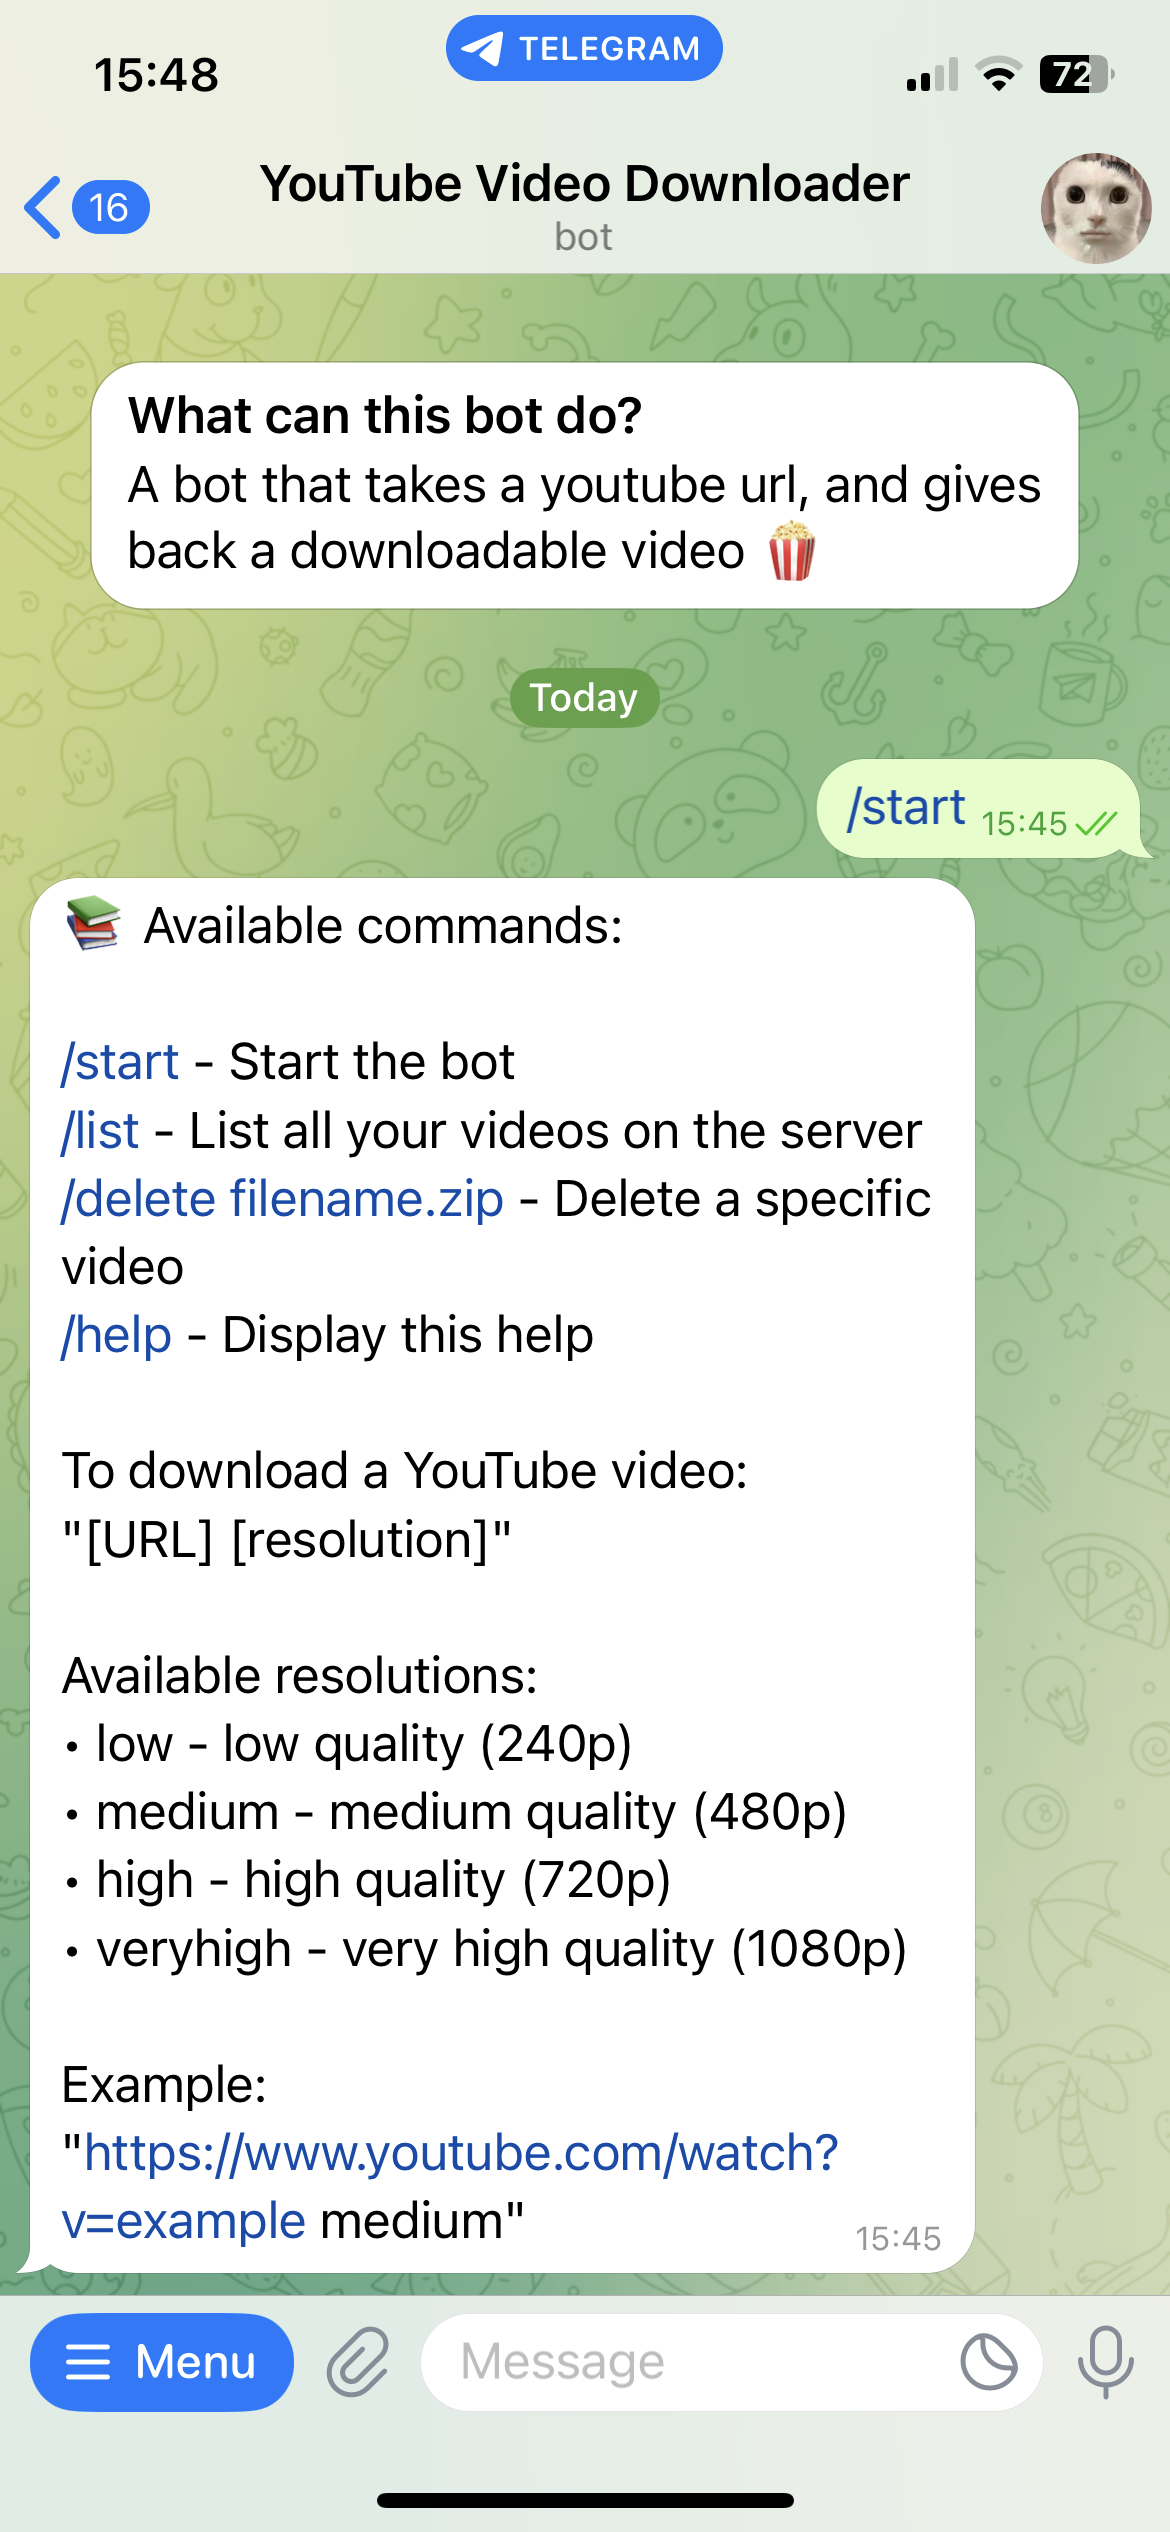
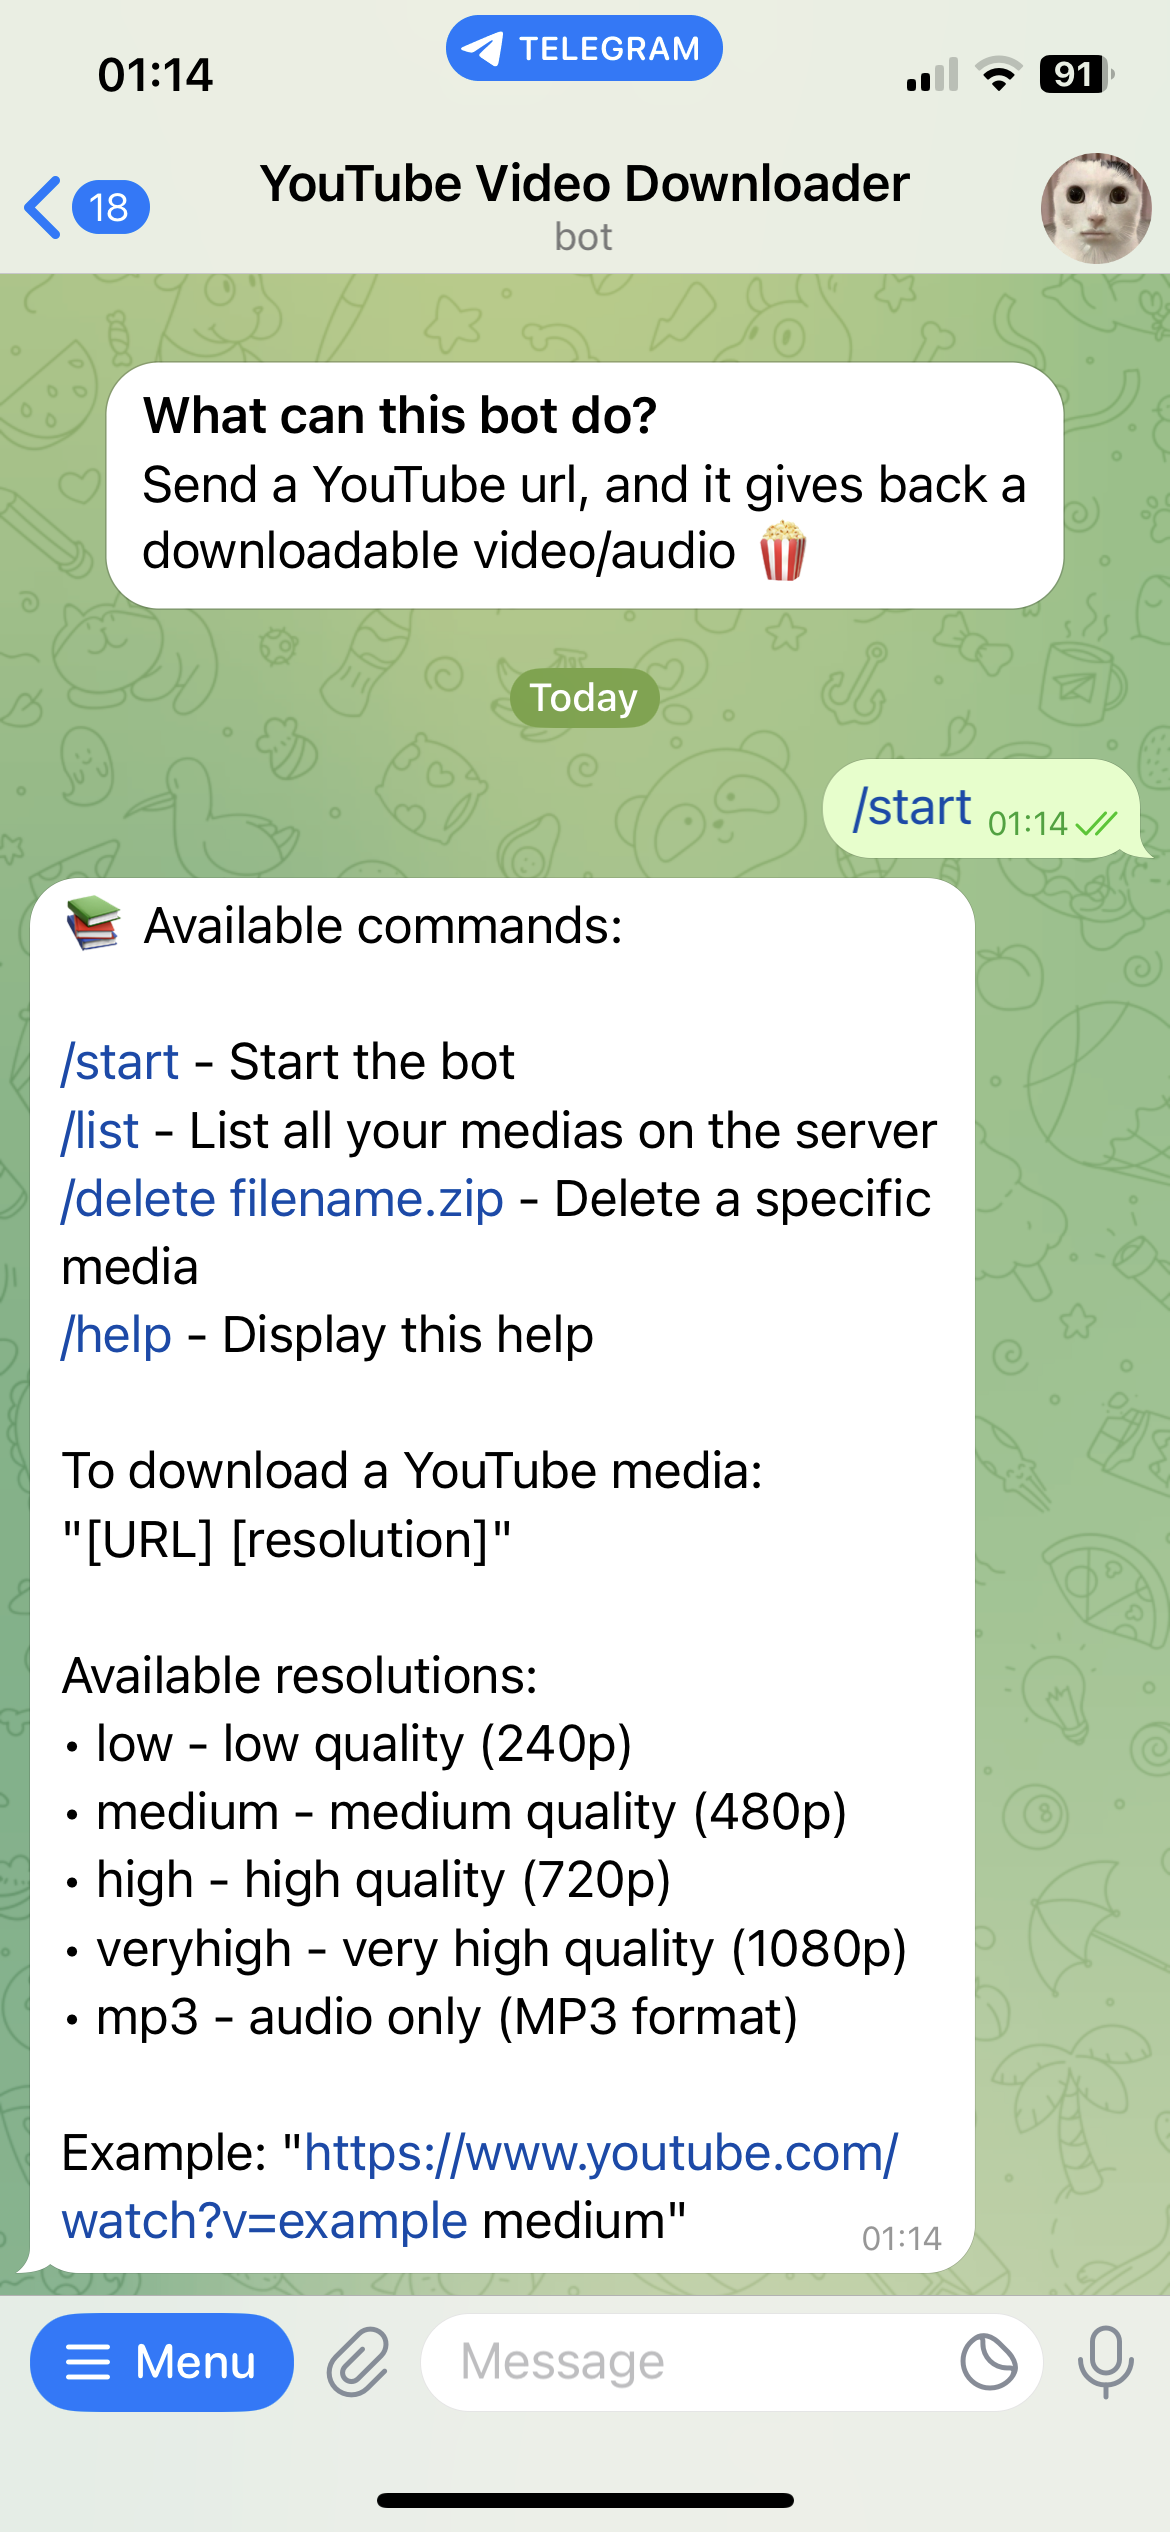
[Feature] Added support for downloading audio in MP3 format, updated S3 key generation to include user info, and improved handling of video/audio sending via Telegram.

diff --git a/lambda_function.py b/lambda_function.py
@@ -32,15 +32,17 @@ Available resolutions:
 • medium - medium quality (480p)
 • high - high quality (720p)
 • veryhigh - very high quality (1080p)
+• mp3 - audio only (MP3 format)
 
-Example:
-"https://www.youtube.com/watch?v=example medium"
+Example: "https://www.youtube.com/watch?v=example medium"
     """
+
 FORMATS = {
     "low": "bestvideo[height<=240][ext=mp4]+bestaudio",
     "medium": "bestvideo[height<=480][ext=mp4]+bestaudio",
     "high": "bestvideo[height<=720][ext=mp4]+bestaudio",
-    "veryhigh": "bestvideo[height<=1080][ext=mp4]+bestaudio"}
+    "veryhigh": "bestvideo[height<=1080][ext=mp4]+bestaudio",
+    "mp3": "bestaudio"}
 
 WORKING_DIR = "/tmp"  # AWS Lambda has write permissions in /tmp
 os.makedirs(WORKING_DIR, exist_ok=True)
@@ -90,18 +92,26 @@ def zip_file(file_path):
         return None
 
 
-def get_s3_key(chat_id, file_name):
+def get_s3_key(chat_id, file_name, first_name=None, last_name=None):
     """
-    Generate the S3 key using chat_id as folder structure
+    Generate the S3 key using chat_id, first_name, and last_name as folder structure
     """
-    return f"{chat_id}/{file_name}"
+    # Create a folder name with available user info
+    folder_parts = [str(chat_id)]
+    if first_name:
+        folder_parts.append(first_name)
+    if last_name:
+        folder_parts.append(last_name)
+    
+    folder_name = "_".join(folder_parts)
+    return f"{folder_name}/{file_name}"
 
 
-def upload_video_to_s3(file_path, chat_id):
+def upload_file_to_s3(file_path, chat_id, first_name=None, last_name=None):
     s3 = boto3.client('s3')
 
     file_name = os.path.basename(file_path)
-    s3_key = get_s3_key(chat_id, file_name)
+    s3_key = get_s3_key(chat_id, file_name, first_name, last_name)
 
     try:
         s3.upload_file(file_path, S3_YT_VIDEOS_BUCKET_NAME, s3_key)
@@ -113,7 +123,7 @@ def upload_video_to_s3(file_path, chat_id):
     return s3_key
 
 
-def generate_presigned_url(s3_key):
+def generate_url(s3_key):
     s3 = boto3.client('s3', config=Config(signature_version='s3v4'))
     try:
         url = s3.generate_presigned_url('get_object',
@@ -125,37 +135,46 @@ def generate_presigned_url(s3_key):
         return None
 
 
-def send_video_or_link(chat_id, file_path):
+def send_video_or_link(chat_id, file_path, first_name=None, last_name=None):
     file_name = os.path.basename(file_path)
     file_size_mb = os.path.getsize(file_path) / (1024 * 1024)  # Convert to MB
     print(f"*** File size: {file_size_mb:.2f} MB")
 
-    # If the file size is less than 50MB, send it directly as a video
+    # If the file size is less than 50MB, send it directly
     if file_size_mb < 50:
-        print(f"*** File is {file_size_mb:.2f}MB, using sendVideo")
-        url_video = f"https://api.telegram.org/bot{BOT_TOKEN}/sendVideo"
-        with open(file_path, 'rb') as video:
-            video_data = video.read()
-        fields = {"chat_id": str(chat_id), "video": (file_name, video_data, "video/mp4")}
-        response = HTTP.request('POST', url_video, fields=fields)
+        print(f"*** File is {file_size_mb:.2f}MB, sending directly")
+        if file_name.endswith('.mp3'):
+            url = f"https://api.telegram.org/bot{BOT_TOKEN}/sendAudio"
+            with open(file_path, 'rb') as audio:
+                audio_data = audio.read()
+            fields = {"chat_id": str(chat_id), "audio": (file_name, audio_data, "audio/mp3")}
+        else:
+            url = f"https://api.telegram.org/bot{BOT_TOKEN}/sendVideo"
+            with open(file_path, 'rb') as video:
+                video_data = video.read()
+            fields = {"chat_id": str(chat_id), "video": (file_name, video_data, "video/mp4")}
+
+        response = HTTP.request('POST', url, fields=fields)
         print(f"*** Response of the POST request: {response.data}")
 
     # If the file size is 50MB or more, zip it, upload to S3 and send the link
     else:
         print(f"*** File is {file_size_mb:.2f}MB, zipping, uploading to S3 and sending link")
 
+        media = "audio/music" if file_name.endswith('.mp3') else "video"
+
         # Zip the file
         zip_file_path = zip_file(file_path)
 
-        # Upload the zipped file to S3 with chat_id as folder
-        s3_key = upload_video_to_s3(zip_file_path, chat_id)
+        # Upload the zipped file to S3 with chat_id and user info as folder
+        s3_key = upload_file_to_s3(zip_file_path, chat_id, first_name, last_name)
         if s3_key:
             # Generate a pre-signed URL
-            file_url = generate_presigned_url(s3_key)
+            file_url = generate_url(s3_key)
             if file_url:
-                msg = f"Here's your video (as a zip file) 🍿\n\n{file_url}"
+                msg = f"Here's your {media} (as a zip file) 🍿\n\n{file_url}"
                 send_message(chat_id, msg)
-                print("*** Video uploaded to S3 and link sent to user")
+                print(f"*** {media} uploaded to S3 and link sent to user")
             else:
                 print("*** Failed to generate pre-signed URL")
                 send_message(chat_id, "Sorry, there was an error creating the download URL 🥲")
@@ -163,8 +182,8 @@ def send_video_or_link(chat_id, file_path):
             # Clean up the zip file
             os.remove(zip_file_path)
         else:
-            print("*** Failed to upload video to S3")
-            send_message(chat_id, "Sorry, there was an error sending the video to the server 🥲")
+            print(f"*** Failed to upload {media} to S3")
+            send_message(chat_id, f"Sorry, there was an error sending the {media} to the server 🥲")
 
     # Clean up after sending the video
     os.remove(file_path)
@@ -183,10 +202,18 @@ def download_video(url, resolution):
         YT_DLP_PATH,
         "--cookies", cookie_file,
         "--output", output_path,
-        "--format", format_string,
-        "--ffmpeg-location", FFMPEG_PATH,
-        "--merge-output-format", "mp4",
-        url]
+        "--format", format_string]
+
+    if resolution == "mp3":
+        command_download.extend([
+            "--extract-audio",
+            "--audio-format", "mp3"])
+    else:
+        command_download.extend([
+            "--ffmpeg-location", FFMPEG_PATH,
+            "--merge-output-format", "mp4"])
+
+    command_download.append(url)
 
     print("*** Executing command:", " ".join(command_download))
     process = subprocess.run(command_download, capture_output=True, text=True)
@@ -194,10 +221,15 @@ def download_video(url, resolution):
 
     if process.returncode == 0:
         print("*** Download successful")
-        for file in os.listdir(WORKING_DIR):
-            if file.endswith(".mp4"):
-                return os.path.join(WORKING_DIR, file)
-        print("*** No MP4 file found")
+        if resolution == "mp3":
+            for file in os.listdir(WORKING_DIR):
+                if file.endswith(".mp3"):
+                    return os.path.join(WORKING_DIR, file)
+        else:
+            for file in os.listdir(WORKING_DIR):
+                if file.endswith(".mp4"):
+                    return os.path.join(WORKING_DIR, file)
+        print("*** No output file found")
     else:
         print("*** Error downloading")
         print(f"*** Error downloading with stderr: {process.stderr}")
@@ -205,14 +237,19 @@ def download_video(url, resolution):
     return None
 
 
-def list_s3_videos(chat_id):
+def list_s3_videos(chat_id, first_name=None, last_name=None):
     """
     List all videos in the S3 bucket for the specific chat_id
     """
     s3 = boto3.client('s3')
     try:
-        # List objects with prefix of chat_id/
-        response = s3.list_objects_v2(Bucket=S3_YT_VIDEOS_BUCKET_NAME, Prefix=f"{chat_id}/")
+        prefix = f"{chat_id}"
+        if first_name:
+            prefix += f"_{first_name}"
+        if last_name:
+            prefix += f"_{last_name}"
+        prefix += "/"
+        response = s3.list_objects_v2(Bucket=S3_YT_VIDEOS_BUCKET_NAME, Prefix=prefix)
         if 'Contents' in response:
             videos = []
             for obj in response['Contents']:
@@ -229,12 +266,12 @@ def list_s3_videos(chat_id):
         return None
 
 
-def delete_s3_video(chat_id, file_name):
+def delete_s3_video(chat_id, file_name, first_name=None, last_name=None):
     """
     Delete a specific video from the S3 bucket for the specific chat_id
     """
     s3 = boto3.client('s3')
-    s3_key = get_s3_key(chat_id, file_name)
+    s3_key = get_s3_key(chat_id, file_name, first_name, last_name)
 
     try:
         # Check if the file exists
@@ -252,7 +289,7 @@ def delete_s3_video(chat_id, file_name):
         return False
 
 
-def process_video_download(chat_id, url, resolution):
+def process_video_download(chat_id, url, resolution, first_name=None, last_name=None):
     """
     Function to handle the video download process asynchronously
     """
@@ -263,9 +300,9 @@ def process_video_download(chat_id, url, resolution):
     if file_path:
         file_name = os.path.basename(file_path)
         file_size_mb = os.path.getsize(file_path) / (1024 * 1024)
-        msg = f"Sending you '{file_name}' in {resolution} resolution ({file_size_mb:.2f} MB), coming soon... 📲"
+        msg = f"""Sending "{file_name}" in {resolution} resolution ({file_size_mb:.2f} MB), coming soon... 📲"""
         send_message(chat_id, msg)
-        send_video_or_link(chat_id, file_path)
+        send_video_or_link(chat_id, file_path, first_name, last_name)
     else:
         send_message(chat_id, "Download failed 🤕 Please try again!")
 
@@ -292,9 +329,11 @@ def lambda_handler(event, context):
     # Check if this is an async video processing invocation
     if event.get('type') == 'process_video':
         chat_id = event.get('chat_id')
+        first_name = event.get('first_name')
+        last_name = event.get('last_name')
         url = event.get('url')
         resolution = event.get('resolution')
-        process_video_download(chat_id, url, resolution)
+        process_video_download(chat_id, url, resolution, first_name, last_name)
         return {'statusCode': 200, 'body': json.dumps('Video processing completed')}
 
     # Regular webhook handling
@@ -304,10 +343,14 @@ def lambda_handler(event, context):
     try:
         chat_id = body['message']['chat']['id']
         message_text = body['message']['text']
+        first_name = body['message']['chat'].get('first_name')
+        last_name = body['message']['chat'].get('last_name')
     except KeyError:
         try:
             chat_id = body['edited_message']['chat']['id']
             message_text = body['edited_message']['text']
+            first_name = body['edited_message']['chat'].get('first_name')
+            last_name = body['edited_message']['chat'].get('last_name')
         except KeyError:
             return {'statusCode': 200, 'body': json.dumps('Invalid message format')}
 
@@ -317,7 +360,7 @@ def lambda_handler(event, context):
 
     # Command: /list - List all videos in S3 bucket for this user
     if message_text.startswith('/list'):
-        videos = list_s3_videos(chat_id)
+        videos = list_s3_videos(chat_id, first_name, last_name)
         if videos:
             message = "📋 Your available videos:\n\n"
             for i, video in enumerate(videos, 1):
@@ -333,15 +376,15 @@ def lambda_handler(event, context):
 
         if len(parts) > 1:
             file_name = parts[1].strip()
-            success = delete_s3_video(chat_id, file_name)
+            success = delete_s3_video(chat_id, file_name, first_name, last_name)
             if success:
-                send_message(chat_id, f"✅ Video '{file_name}' deleted, c'est ciao 🫡")
+                send_message(chat_id, f"""✅ Video "{file_name}" deleted, c'est ciao 🫡""")
                 return {'statusCode': 200, 'body': json.dumps('Delete command processed')}
             else:
-                send_message(chat_id, f"❌ Unable to delete '{file_name}', check the filename 🧐")
+                send_message(chat_id, f"""❌ Unable to delete "{file_name}", check the filename 🧐""")
                 return {'statusCode': 200, 'body': json.dumps('Delete command processed')}
         else:
-            send_message(chat_id, "❌ Please specify the filename to delete, for example /delete Video.zip")
+            send_message(chat_id, "❌ Please specify the filename to delete, for example /delete filename.zip")
         return {'statusCode': 200, 'body': json.dumps('Delete command processed')}
 
     # Command: /help or /start - Show available commands
@@ -372,9 +415,10 @@ def lambda_handler(event, context):
         payload = {
             'type': 'process_video',
             'chat_id': chat_id,
+            'first_name': first_name,
+            'last_name': last_name,
             'url': url,
-            'resolution': resolution
-        }
+            'resolution': resolution}
         invoke_lambda_async(payload)
 
         return {'statusCode': 200, 'body': json.dumps('Video download request received')}

diff --git a/README.md b/README.md
@@ -1,40 +1,48 @@
 # YouTube Downloader for Telegram
 
-A Telegram bot powered by AWS Lambda that allows users to download YouTube videos in different qualities and send them directly via Telegram or through a presigned S3 download link for larger files.
+A Telegram bot powered by AWS Lambda that allows users to download YouTube videos in different qualities, download audio from YouTube videos in MP3 format, and send them directly via Telegram or through a presigned S3 download link for larger files.
 
 <img src="docs/Preview.png" width=25%>
 
 ## 🌟 Features
 
 - Download YouTube videos in 4 different resolutions (240p, 480p, 720p, 1080p)
-- Direct sending of videos under 50 MB via Telegram
-- Automatic storage on AWS S3 and generation of presigned links for videos over 50 MB
+- Download audio from YouTube videos in MP3 format
+- Direct sending of videos/audio under 50 MB via Telegram
+- Automatic storage on AWS S3 and generation of presigned links for files over 50 MB
 - YouTube cookies management to access age-restricted content
-- Commands to list and delete stored videos
+- Commands to list and delete stored videos/audios
 
 ## 📋 Available Commands
 
 - `/start` - Start the bot
-- `/list` - List all videos stored in the S3 bucket
-- `/delete filename.mp4` - Delete a specific video from the S3 bucket
+- `/list` - List all the videos/audios stored in the S3 bucket
+- `/delete filename.zip` - Delete a specific video/audio from the S3 bucket
 - `/help` - Display help with all available commands
 
-To download a video, simply send:
+To download a video/audio, simply send:
 ```
 [YouTube URL] [resolution]
 ```
 
-## 🏞 Available resolutions:
+## 🎥 Available resolutions and formats:
 
 - `low` (240p)
 - `medium` (480p)
 - `high` (720p)
 - `veryhigh` (1080p)
+- `mp3` (audio only)
 
-## 📝 Example:
+## 📝 Examples:
 
+For video:
 ```
 https://www.youtube.com/watch?v=example medium
+```
+
+For audio only:
+```
+https://www.youtube.com/watch?v=example mp3
 ```
 
 ## 🏗 Architecture
